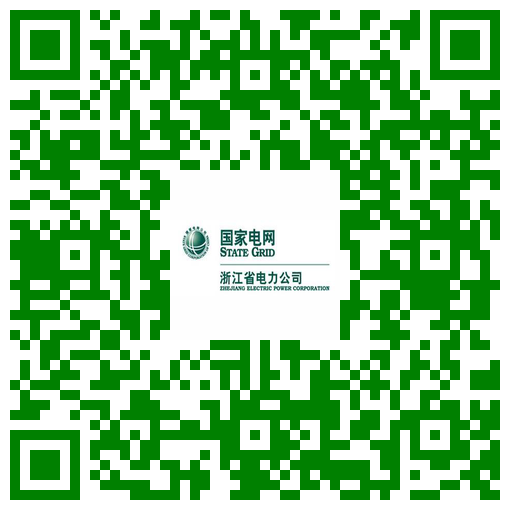
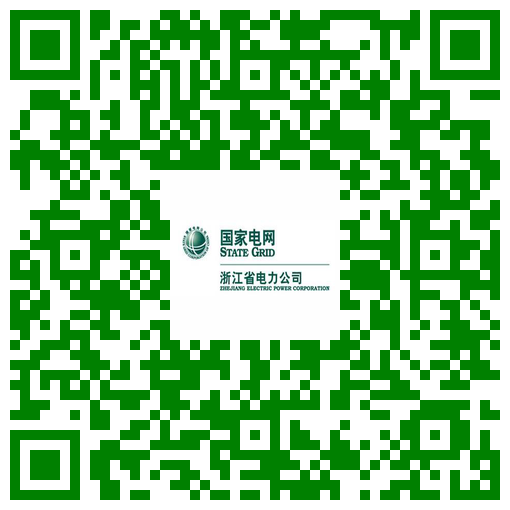
new add

diff --git a/.virtual_documents/二维码/qrcode3.ipynb.py b/.virtual_documents/二维码/qrcode3.ipynb.py
@@ -30,13 +30,12 @@ def qr_code():
         box_size=10,
         border=1
     )
-    text1='{:<10s}'.format('2021信通岗位新进员工技能强化班\n\r')
-    text2='{:<10s}'.format('原定6月举办') 
+   
             #延期至7月"""
-    #qr.add_data('2021信通岗位新进员工技能强化班\t\n')# 添加数据
+    qr.add_data('2021信通岗位新进员工技能强化班,原定6月,延期至7月')# 添加数据
     #qr.add_data('{:<10d}'.format('2021信通岗位新进员工技能强化班\n\r'))
-    qr.add_data(text1)
-    qr.add_data(text2)
+    #qr.add_data(text1)
+    #qr.add_data(text2)
     qr.make(fit=True)# 填充数据
     
    # 生成图片
